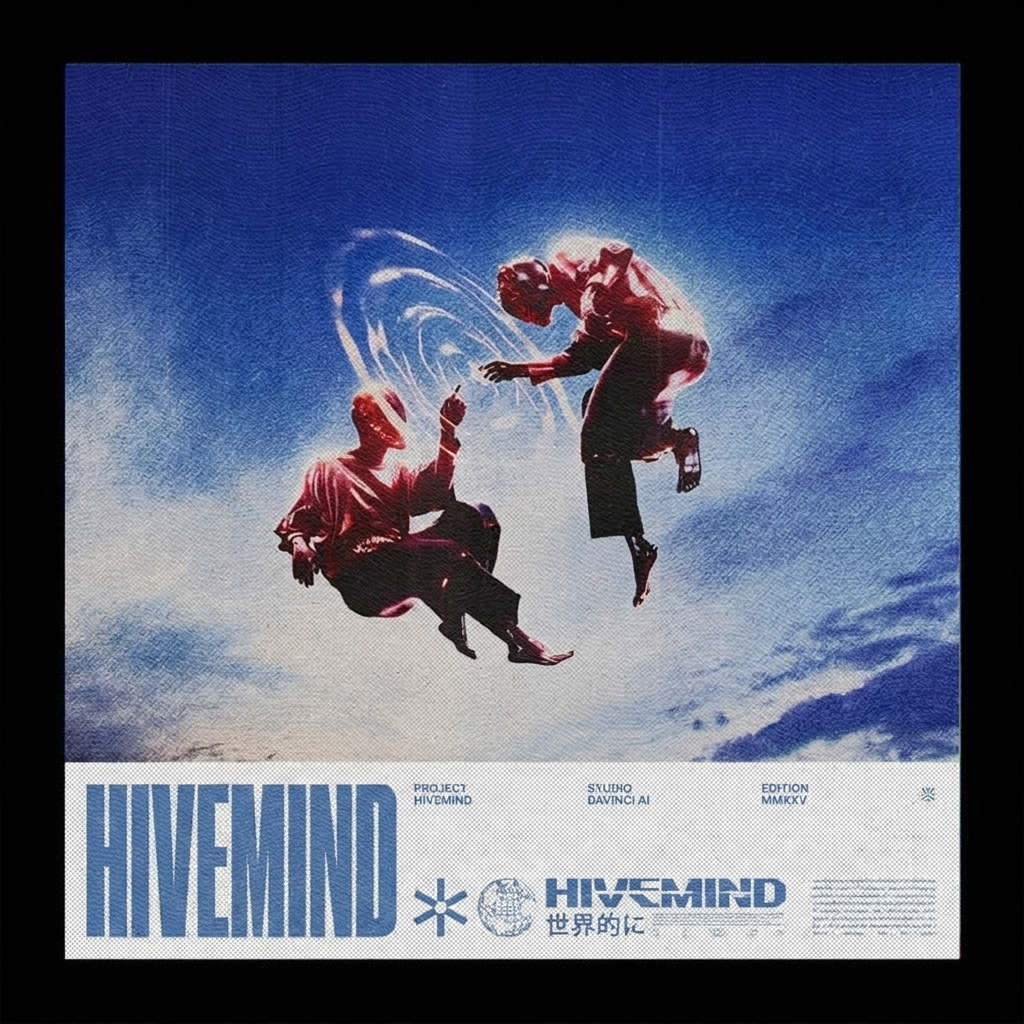
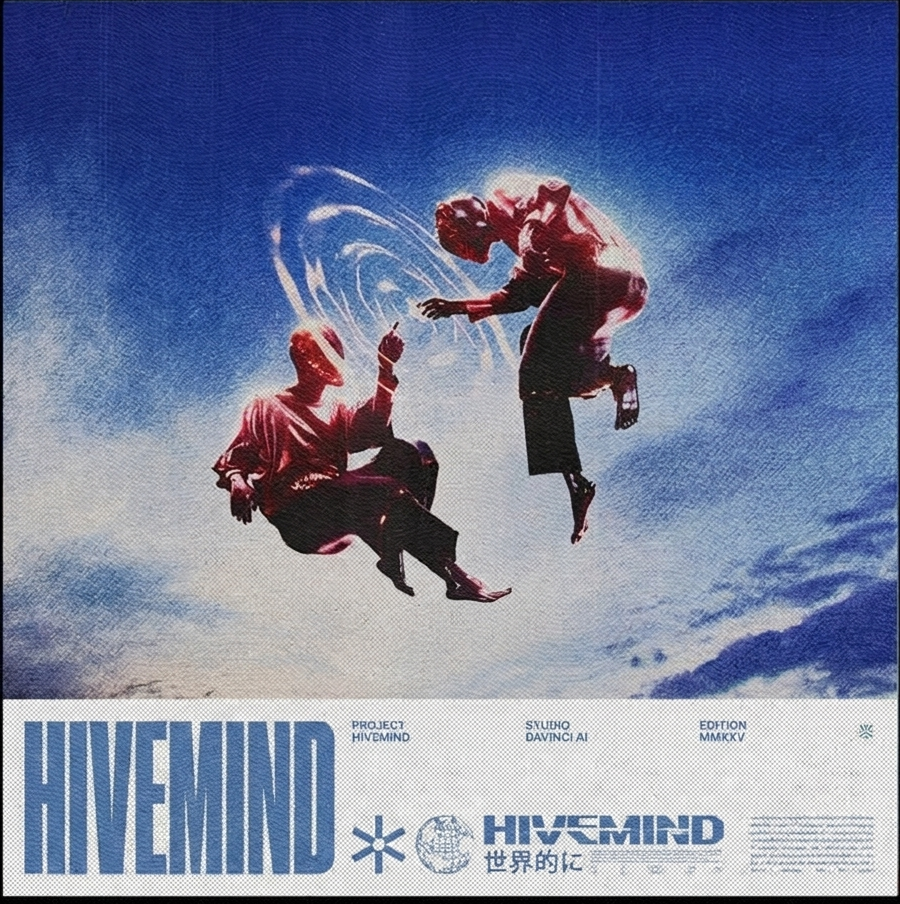
fix(login): unified split-seam card + cropped poster
One rounded card split down the middle: left pane = form (no inner card),
right pane = poster bleeding full-bleed to the center seam + edges (object-cover,
clipped by the card's rounded corners). Removed the inner white card/padding/gap
that made the poster look letterboxed. Cropped the poster's uniform black frame
(1024² → 900×904).

diff --git a/src/components/hivemind/app/auth/LoginPage.jsx b/src/components/hivemind/app/auth/LoginPage.jsx
@@ -163,8 +163,8 @@ export default function LoginPage() {
         transition={{ duration: 0.6, ease: [0.22, 1, 0.36, 1] }}
         className={`relative z-10 w-full mx-4 transition-[max-width] duration-300 ${showOnboarding ? 'max-w-xl md:max-w-[1000px]' : 'max-w-md md:max-w-3xl'}`}
       >
-        <div className="flex flex-col md:flex-row items-stretch gap-6">
-          <div className={`bg-white backdrop-blur-xl border border-[#e3e0db] rounded-2xl p-8 shadow-[0_1px_3px_rgba(0,0,0,0.04)] transition-[width] duration-300 w-full shrink-0 ${showOnboarding ? 'md:w-[576px]' : 'md:w-[448px]'}`}>
+        <div className="flex flex-col md:flex-row items-stretch bg-white border border-[#e3e0db] rounded-2xl shadow-[0_1px_3px_rgba(0,0,0,0.04)] overflow-hidden">
+          <div className={`p-8 transition-[width] duration-300 w-full shrink-0 ${showOnboarding ? 'md:w-[576px]' : 'md:w-[448px]'}`}>
             {/* Logo */}
             <div className="flex items-center gap-3 mb-8">
             <div className="w-10 h-10 rounded-xl bg-[#117dff]/10 border border-[#117dff]/20 flex items-center justify-center">
@@ -566,12 +566,13 @@ export default function LoginPage() {
           </AnimatePresence>
         </div>
 
-        {/* Right side poster image card, matching the main card's height exactly */}
-        <div className="hidden md:flex flex-1 bg-white border border-[#e3e0db] rounded-2xl p-4 shadow-[0_1px_3px_rgba(0,0,0,0.04)] items-stretch justify-center overflow-hidden">
+        {/* Right pane — poster bleeds full-bleed to the center seam + edges,
+            clipped by the unified card's rounded corners (no inner card/padding). */}
+        <div className="hidden md:flex flex-1 items-stretch overflow-hidden">
           <img
             src="/images/hivemind-poster-1.png"
             alt="HIVEMIND memory system"
-            className="w-full h-full object-cover rounded-xl"
+            className="w-full h-full object-cover"
           />
         </div>
 
